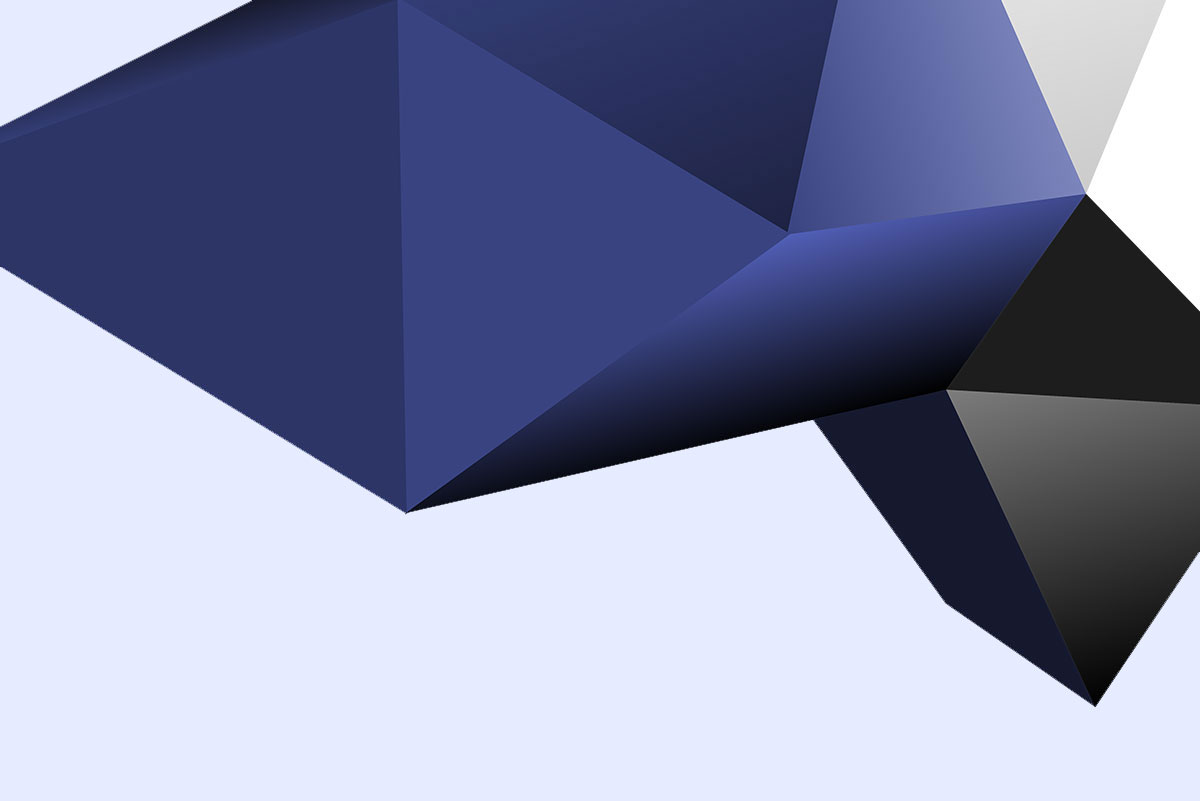
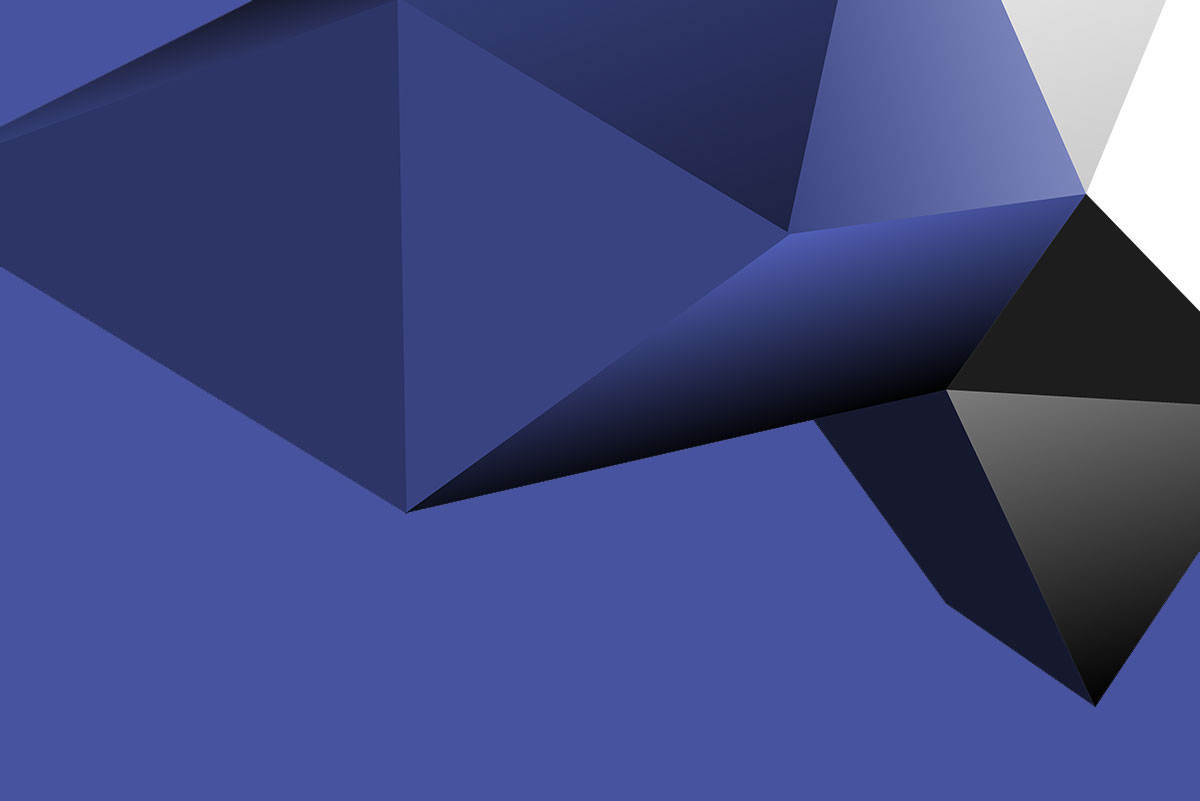
commit15

diff --git a/blwebsite/index.html b/blwebsite/index.html
@@ -53,7 +53,7 @@
                     <span class="icon-bar"></span>
                 </button>
                 <a href="#" class="navbar-brand logo">
-                    <img src="images/logo.png" alt="" class="img-responsive" style="max-width:240px;">
+                    <img src="images/logo.png" alt="" class="img-responsive">
                 </a>
             </div>
             <!--Logo/-->
@@ -564,7 +564,7 @@
     <section class="section-padding overlay worked-with overlay" id="worked-with">
         
        <div class="col-lg-12 text-center caption-title">
-               <h2 id="workedw" style="font-size: 50px; color: #272E59;">We have worked with</h2>
+               <h2 id="workedw">We have worked with</h2>
             </div>
         
         
@@ -638,7 +638,7 @@
     </section>
     
 
-    <footer class="footer-area relative sky-bg" id="contact-page" style="background: #242B52;">
+    <footer class="footer-area relative sky-bg" id="contact-page" style="background: #47539f">
         <div class="absolute footer-bg"></div>
         <div class="footer-top">
             <div class="container">
@@ -726,6 +726,13 @@
 
 
     <!--Vendor-JS-->
+
+    
+    
+    
+    
+    
+    
     <script src="js/vendor/jquery-1.12.4.min.js"></script>
     <script src="js/vendor/bootstrap.min.js"></script>
     <!--Plugin-JS-->

diff --git a/blwebsite/css/responsive.css b/blwebsite/css/responsive.css
@@ -166,11 +166,24 @@
     padding-left: 5px;
     
 }
+
+    #workedw
+{
+    font-size: 30px;
+    color: #272E59;
+    
+}
     
     
+.single-blog .blog-content {
+    padding: 15px 15px;
+    background-color: #ffffff
+}
     
-    
-    
+.blog-content > p
+    {
+        font-size: 16px;
+    }
     
     
     

diff --git a/blwebsite/style.css b/blwebsite/style.css
@@ -1077,6 +1077,13 @@ input:-webkit-autofill:focus {
     
 }
 
+#workedw
+{
+    font-size: 50px;
+    color: #272E59;
+    
+}
+
 
 
 
